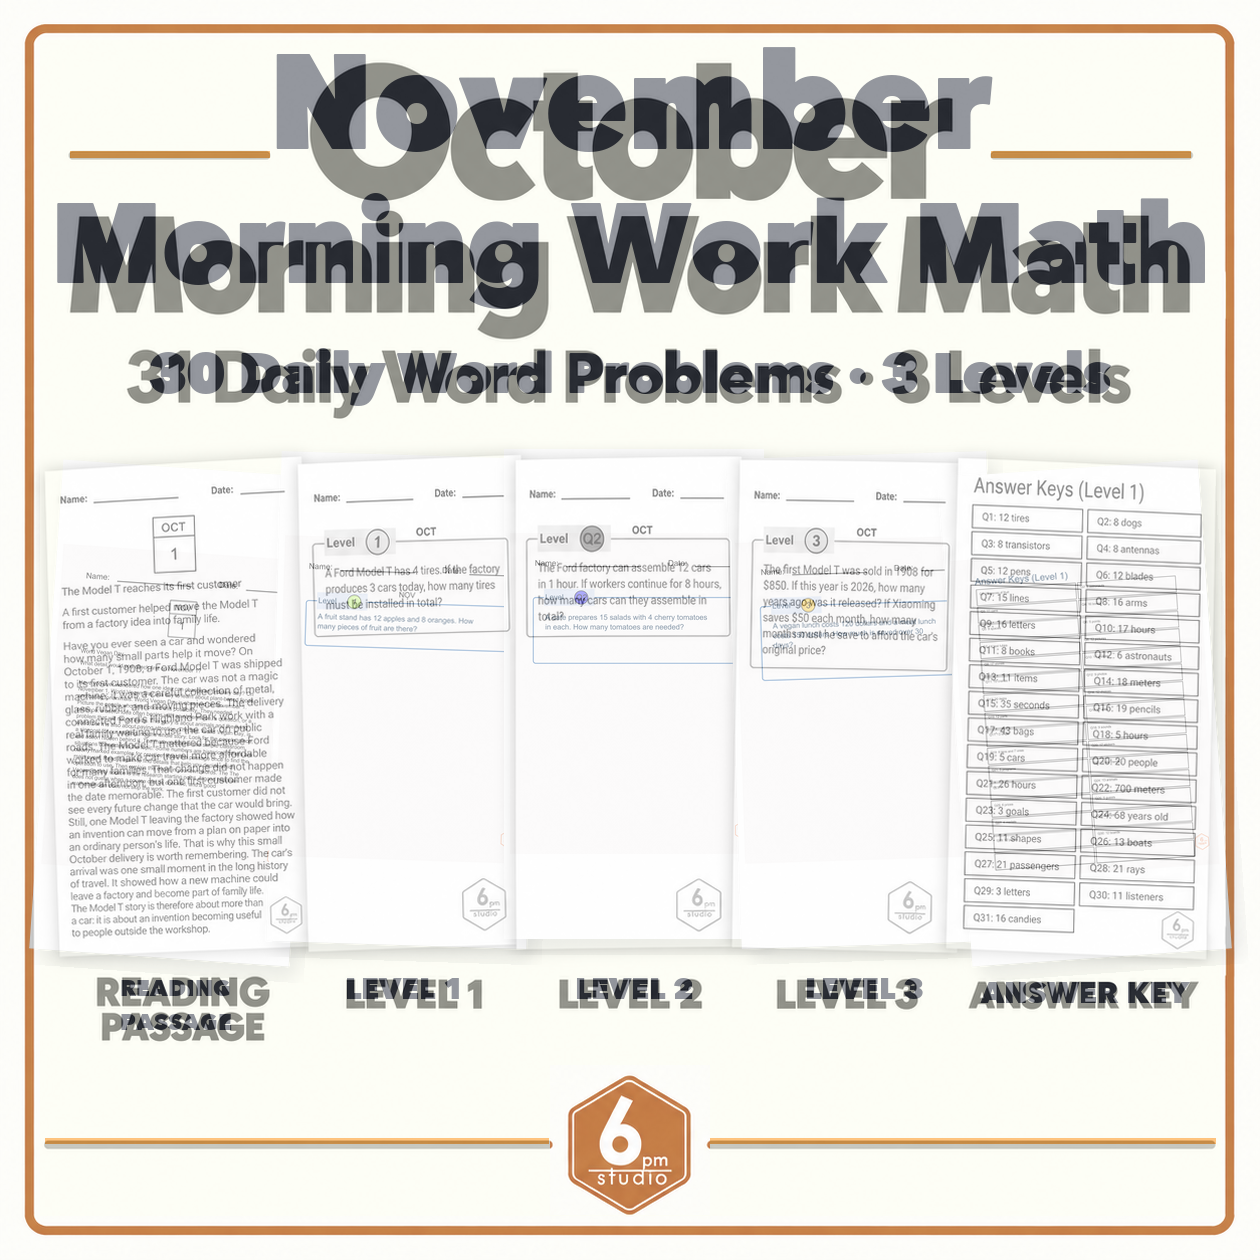
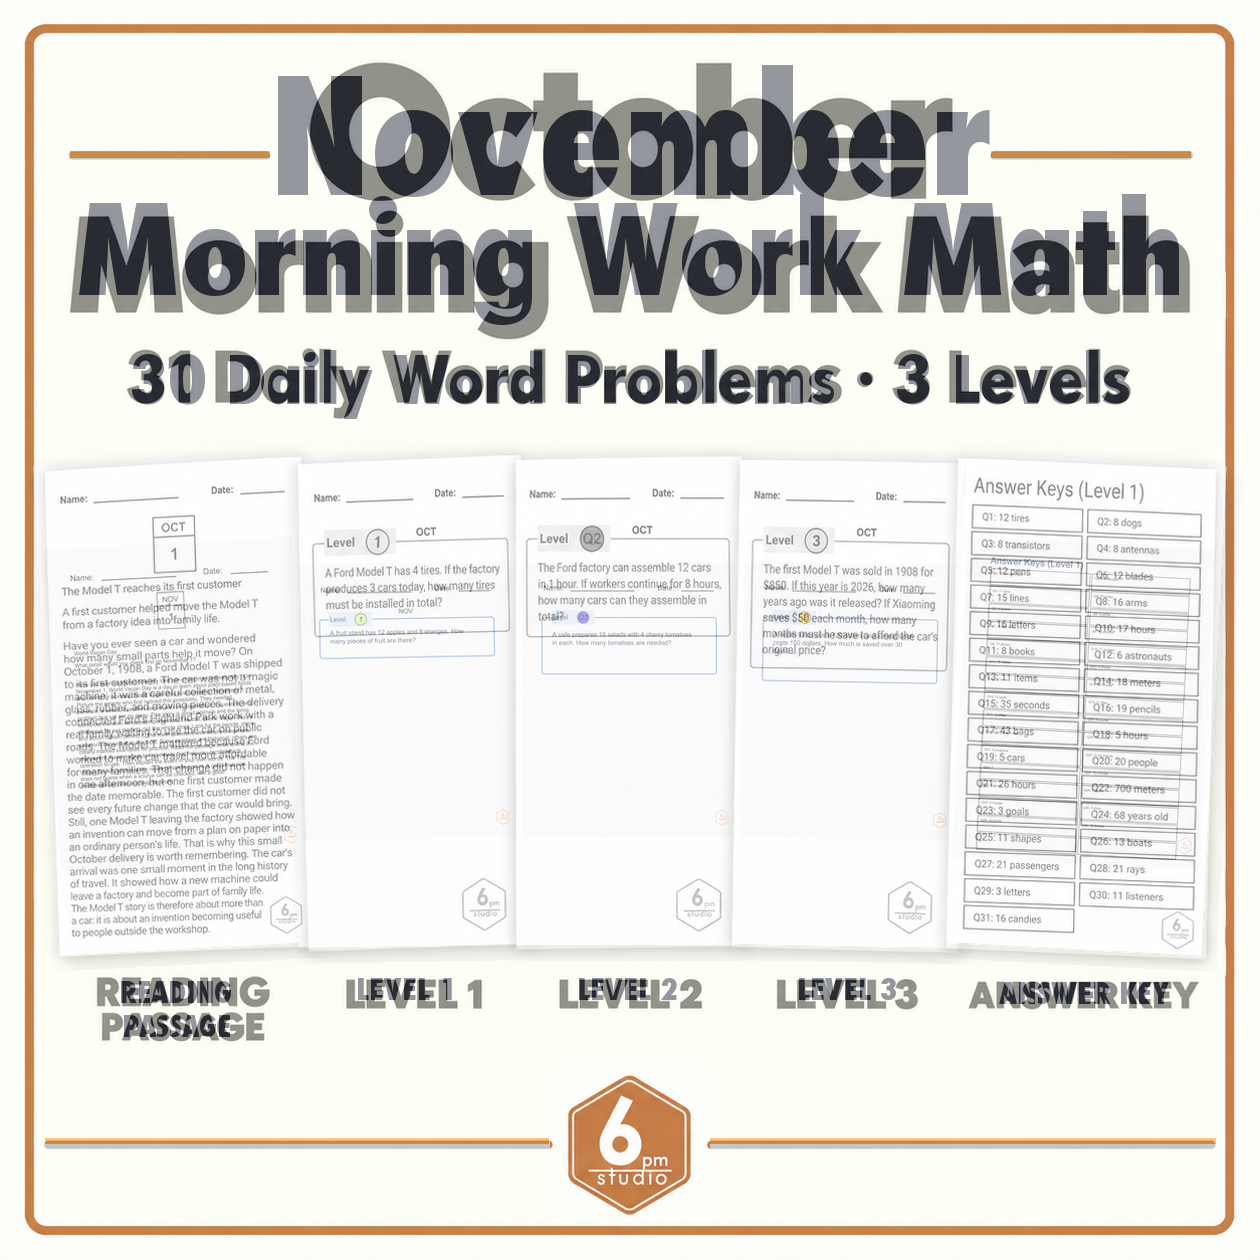
fix: validate and align landing thumbnail geometry

diff --git a/scripts/validate-tpt-visual-structure.py b/scripts/validate-tpt-visual-structure.py
@@ -56,6 +56,47 @@ def mask_for(name):
     return mask
 
 
+def dark_bbox(image, box):
+    """Return the ink bounds for a fixed typography region."""
+    x0, y0, x1, y1 = box
+    pixels = image.load()
+    points = []
+    for y in range(y0, y1):
+        for x in range(x0, x1):
+            r, g, b = pixels[x, y]
+            if r < 80 and g < 90 and b < 110:
+                points.append((x, y))
+    if not points:
+        return None
+    return [min(x for x, _ in points), min(y for _, y in points), max(x for x, _ in points) + 1, max(y for _, y in points) + 1]
+
+
+def card_structure_metrics(reference, actual, box):
+    """Compare sheet silhouettes while excluding worksheet copy and math text."""
+    x0, y0, x1, y1 = box
+    ref_pixels, actual_pixels = reference.load(), actual.load()
+    ref_bits, actual_bits = [], []
+    for y in range(y0, y1):
+        for x in range(x0, x1):
+            rr, rg, rb = ref_pixels[x, y]
+            ar, ag, ab = actual_pixels[x, y]
+            # The ivory background is blue-channel 239; the white sheet and
+            # its crop are materially brighter. This deliberately ignores
+            # worksheet text while preserving card position, size, rotation,
+            # overlap, and much of the shadow boundary.
+            ref_bits.append(rb > 248 and rr > 245 and rg > 245)
+            actual_bits.append(ab > 248 and ar > 245 and ag > 245)
+    intersection = sum(a and b for a, b in zip(ref_bits, actual_bits))
+    union = sum(a or b for a, b in zip(ref_bits, actual_bits))
+    matches = sum(a == b for a, b in zip(ref_bits, actual_bits))
+    return {
+        "region": list(box),
+        "silhouette_iou": round(intersection / union, 6) if union else 0.0,
+        "silhouette_matching_ratio": round(matches / len(ref_bits), 6),
+        "passed": (intersection / union >= 0.28 and matches / len(ref_bits) >= 0.38) if union else False,
+    }
+
+
 def main():
     parser = argparse.ArgumentParser()
     parser.add_argument("--canonical-dir", required=True)
@@ -106,6 +147,56 @@ def main():
             diff.save(diff_path, "PNG", optimize=True)
             overlay.save(overlay_path, "PNG", optimize=True)
             result["pixel_comparison"].update({"diff_artifact": str(diff_path), "overlay_artifact": str(overlay_path)})
+            card_regions = {
+                "reading_passage": (35, 440, 305, 970),
+                "level1": (265, 440, 535, 970),
+                "level2": (495, 440, 765, 970),
+                "level3": (725, 440, 995, 970),
+                "answer_key": (950, 440, 1225, 970),
+            }
+            card_metrics = {key: card_structure_metrics(ref_rgb, actual_rgb, box) for key, box in card_regions.items()}
+            result["card_layout"] = {
+                "method": "white-sheet silhouette IoU per fixed card region; worksheet copy excluded",
+                "regions": card_metrics,
+                "passed": all(item["passed"] for item in card_metrics.values()),
+            }
+            typography_regions = {
+                "month": (270, 40, 990, 190),
+                "title": (40, 200, 1220, 345),
+                "subtitle": (70, 340, 1190, 420),
+                "labels": (70, 960, 1200, 1045),
+            }
+            ref_bboxes = {key: dark_bbox(ref_rgb, box) for key, box in typography_regions.items()}
+            actual_bboxes = {key: dark_bbox(actual_rgb, box) for key, box in typography_regions.items()}
+            typography_deltas = {}
+            for key in typography_regions:
+                ref_box, actual_box = ref_bboxes[key], actual_bboxes[key]
+                if not ref_box or not actual_box:
+                    typography_deltas[key] = {"reference_bbox": ref_box, "actual_bbox": actual_box, "passed": False}
+                    continue
+                deltas = [actual_box[index] - ref_box[index] for index in range(4)]
+                if key == "month":
+                    ref_center = (ref_box[0] + ref_box[2]) / 2, (ref_box[1] + ref_box[3]) / 2
+                    actual_center = (actual_box[0] + actual_box[2]) / 2, (actual_box[1] + actual_box[3]) / 2
+                    typography_passed = (
+                        abs(actual_center[0] - ref_center[0]) <= 12
+                        and abs(actual_center[1] - ref_center[1]) <= 24
+                        and abs((actual_box[3] - actual_box[1]) - (ref_box[3] - ref_box[1])) <= 50
+                    )
+                else:
+                    typography_passed = max(abs(delta) for delta in deltas) <= 30
+                typography_deltas[key] = {
+                    "reference_bbox": ref_box,
+                    "actual_bbox": actual_box,
+                    "edge_deltas": deltas,
+                    "passed": typography_passed,
+                }
+            result["typography_layout"] = {
+                "method": "dark-ink bounding boxes in fixed title and label regions",
+                "regions": typography_deltas,
+                "passed": all(item["passed"] for item in typography_deltas.values()),
+            }
+            result["passed"] = result["passed"] and result["card_layout"]["passed"] and result["typography_layout"]["passed"]
         results.append(result)
     report = {"method": "fixed structural regions; variable month/content regions excluded", "results": results, "passed": all(x["passed"] for x in results)}
     Path(args.report).write_text(json.dumps(report, indent=2) + "\n")

diff --git a/scripts/generate_monthly_thumbnails.py b/scripts/generate_monthly_thumbnails.py
@@ -105,8 +105,8 @@ def centered(draw, text, y, size, max_width=1120, fill=NAVY, bold=True):
 def landing_font(size: int, bold: bool = True):
     """Use the locked reference display face for the landing-page asset only."""
     candidates = [
+        ("/System/Library/Fonts/Supplemental/Futura.ttc", 4) if bold else ("/System/Library/Fonts/Supplemental/Arial.ttf", 0),
         ("/System/Library/Fonts/Avenir Next.ttc", 8) if bold else ("/System/Library/Fonts/Supplemental/Arial.ttf", 0),
-        ("/System/Library/Fonts/Supplemental/Arial Black.ttf", 0) if bold else ("/System/Library/Fonts/Supplemental/Arial.ttf", 0),
     ]
     for candidate, index in candidates:
         if Path(candidate).exists():
@@ -125,7 +125,7 @@ def landing_fitted(text: str, width: int, size: int, bold: bool = True):
 
 def landing_centered(draw, text, y, size, max_width=1120, fill=NAVY, bold=True):
     f = landing_fitted(text, max_width, size, bold)
-    draw.text((630, y), text, anchor="ma", fill=fill, font=f, stroke_width=1 if bold else 0, stroke_fill=fill)
+    draw.text((630, y), text, anchor="ma", fill=fill, font=f)
 
 
 def cover_font(size: int, bold: bool = True):
@@ -383,12 +383,15 @@ def compose_landing_page(month, day_count, pages, out):
     # month name replaces October.
     # The reference month sits in the upper title band; longer month names
     # are fitted without changing that band's vertical center.
-    month_size = 150 if len(month) <= 7 else 132
-    landing_centered(draw, month.title(), 16, month_size, 820)
+    month_size = 150 if len(month) <= 7 else 158
+    # November is longer than October, so keep its ink center in the same
+    # upper-band vertical center instead of letting the font ascent pull it
+    # toward the frame.
+    landing_centered(draw, month.title(), 36, month_size, 820)
     draw.line((70, 154, 269, 154), fill=ORANGE, width=7)
     draw.line((991, 154, 1190, 154), fill=ORANGE, width=7)
-    landing_centered(draw, "Morning Work Math", 172, 112, 1160)
-    landing_centered(draw, f"{day_count} Daily Word Problems · 3 Levels", 338, 54, 1100, bold=True)
+    landing_centered(draw, "Morning Work Math", 172, 122, 1160)
+    landing_centered(draw, f"{day_count} Daily Word Problems · 3 Levels", 338, 65, 1100, bold=True)
 
     # Keep the complete header unobstructed: the canonical reference reserves
     # the upper third for the month/title/subtitle and starts the five-card
@@ -397,11 +400,11 @@ def compose_landing_page(month, day_count, pages, out):
     # outward, while the middle card is highest and nearly square to the
     # canvas. Keep the windows portrait and overlap them in z-order.
     cards = [
-        ("reading_passage", 176, 713, 260, 490, -4.0, "READING\nPASSAGE"),
-        ("level1", 404, 700, 260, 490, -1.8, "LEVEL 1"),
-        ("level2", 634, 694, 260, 490, 0.0, "LEVEL 2"),
-        ("level3", 864, 700, 260, 490, 1.8, "LEVEL 3"),
-        ("answer_key", 1085, 713, 260, 490, 4.0, "ANSWER KEY"),
+        ("reading_passage", 176, 704, 260, 490, 3.0, "READING\nPASSAGE"),
+        ("level1", 407, 701, 225, 490, 1.0, "LEVEL 1"),
+        ("level2", 628, 700, 225, 490, 0.0, "LEVEL 2"),
+        ("level3", 848, 701, 225, 490, -1.0, "LEVEL 3"),
+        ("answer_key", 1084, 704, 260, 490, -3.0, "ANSWER KEY"),
     ]
     for key, cx, cy, width, height, angle, label in cards:
         worksheet = Image.new("RGBA", (width + 32, height + 32), (0, 0, 0, 0))

diff --git a/docs/monthly-thumbnail-prompts.md b/docs/monthly-thumbnail-prompts.md
@@ -231,7 +231,8 @@ Preserve the fixed reference geometry exactly:
 
 For the compositor, preserve the reference's fixed bands: the month/title
 header occupies the upper 430 px, the card strip begins at approximately y=455
-and uses five 260×490 px cards with the reference centers and rotations, the
+and uses the reference's outer 260×490 px cards and inner 225×490 px cards
+with the reference centers and rotations, the
 uppercase labels sit immediately below the cards, and the footer rules remain
 at y=1140 with the centered logo between them. The day-count line uses the
 same bold hierarchy as the reference; only its month-specific number changes.
@@ -256,9 +257,10 @@ these fixed regions aligned to the October reference:
 - Worksheet strip: preserve the five-card order and the reference card
   rectangles, aspect ratio, rotations, z-order, overlap, top/bottom bounds,
   and soft shadow offsets. The silhouette must visibly fan: use approximately
-  -4°, -2°, 0°, +2°, +4° rotations with the outer cards lower than the middle
-  card, while keeping the 260×490 portrait windows unchanged. The cards must
-  not become a uniform flat grid.
+  approximately +3°, +1°, 0°, -1°, -3° rotations with the outer cards lower
+  than the middle card. Preserve the fixture's proportions: wide outer cards
+  and narrower inner cards (about 260×490 for the outer cards and 225×490 for
+  the inner cards). The cards must not become a uniform flat grid.
 - Card previews: use the real November PDF pages, cropped/scaled into the
   reference card windows without changing the card geometry. Do not let page
   content determine card size or push cards vertically.
@@ -270,10 +272,11 @@ these fixed regions aligned to the October reference:
   it with a simplified solid hexagon or a logo with a white rectangular crop.
 - Typography: use the same heavy geometric display treatment as the reference
   for the month, product title, subtitle, and labels. On the production host,
-  lock `Avenir Next Heavy` (or the exact approved reference font asset) for
-  the bold display hierarchy. Do not fall back to generic Arial Black, Arial
-  Rounded, or a light sans-serif substitute; verify the headline silhouette
-  against the fixture.
+  lock the verified `Futura ExtraBold` reference asset for the bold display
+  hierarchy (font index 4 in the production host's `Futura.ttc`, with the
+  exact fixture-matching font file recorded in QA). Do not silently substitute
+  Arial Black, Arial Rounded, or a light sans-serif; verify the headline
+  silhouette and bounding box against the fixture.
 
 The visual QA must compare fixed regions independently: frame/background,
 month/title bands, subtitle, card silhouettes/shadows/overlap, labels, and
